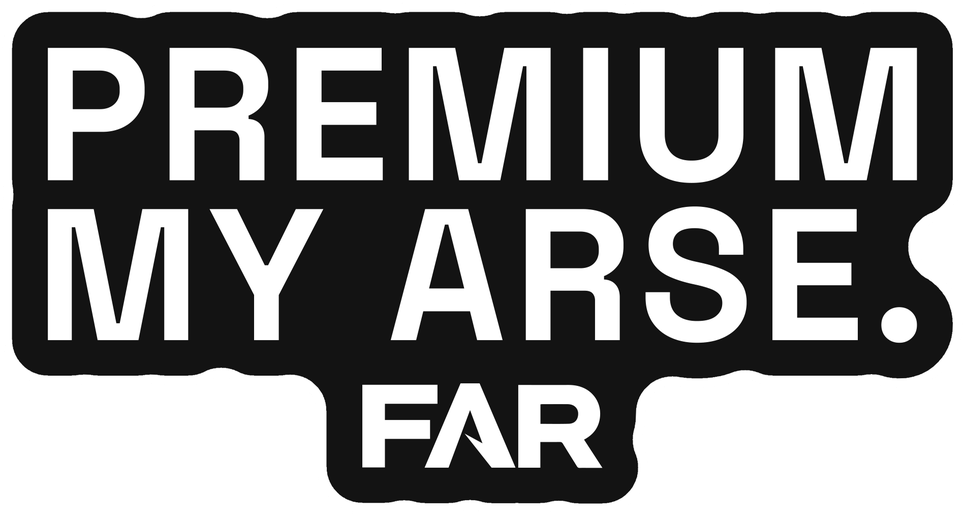
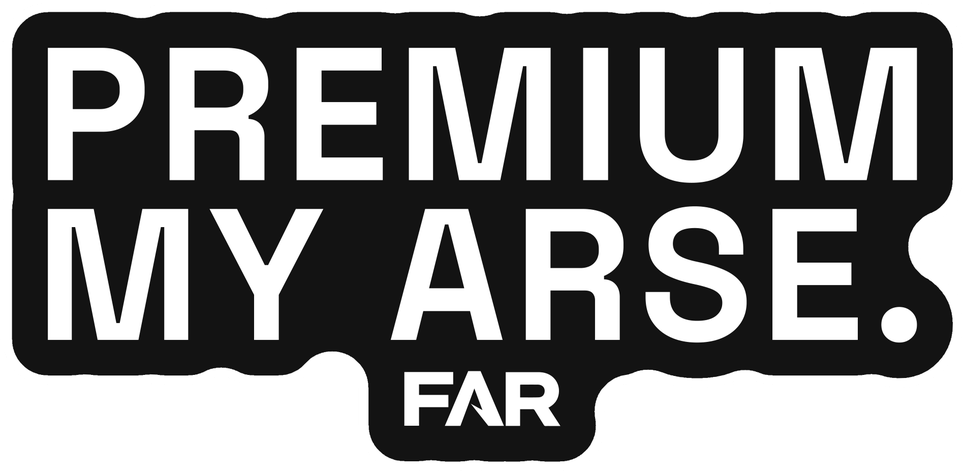
S1392: sticker vote page, smaller FAR + border style, poll link

diff --git a/far-stickers-w5n8.html b/far-stickers-w5n8.html
@@ -4,7 +4,7 @@
 <meta charset="utf-8">
 <meta name="viewport" content="width=device-width, initial-scale=1">
 <meta name="robots" content="noindex, nofollow">
-<title>Stickers: pick five</title>
+<title>Stickers: vote tonight</title>
 <style>
   :root { --bg:#111; --card:#1a1a1a; --text:#f5f5f5; --dim:#9a9a9a; --line:#2e2e2e; }
   * { margin:0; padding:0; box-sizing:border-box; }
@@ -31,11 +31,27 @@
 </head>
 <body>
 
-<h1>Stickers: pick five</h1>
-<p class="sub">Carol is making 1,000 stickers for us: 5 designs, 200 of each. They're already paid for in her order. Here are 11 options. Claude's pick of 5 is marked. Carol needs the artwork by Wed 22 Oct.</p>
+<h1>Stickers: vote tonight</h1>
+<p class="sub">Carol is making 1,000 stickers for us: 5 designs, 200 of each. They're already paid for in her order. Here are 11 options. Say In or Out on each, and the five with the most Ins go to Carol. Votes close tonight.</p>
+
+<div class="rec"><b>Vote here</b><br>
+<a href="https://agent.farworkwear.com.au/brain/decide?poll=stickers-s1392" style="color:var(--text)">agent.farworkwear.com.au/brain/decide?poll=stickers-s1392</a><br>
+12 quick taps: In or Out on each sticker, then where FAR goes on the slogan ones. A tie for the last spot: Fil picks between them.</div>
 
 <div class="rec"><b>What they are</b><br>
 Outdoor vinyl, cut to shape, with a thin white edge like Carol's proof. Most are 8 cm wide, about the width of a bank card. They go in the boxes and get handed out. Every one carries the FAR logo, placed from our real logo file, never typed.</div>
+
+<h2>Where FAR goes on the slogan ones</h2>
+<p>The FAR under the words is smaller now (Fil: the old one looked cluttered). The other way: a thin white frame with FAR sitting in a gap at the bottom. Both keep FAR on black. It applies to 7am/2pm, Don't ask, Clocked off, Premium and Formie, whichever win.</p>
+<div class="card">
+<h3>Small, underneath</h3>
+<img class="st" style="width:85%" src="stickers_w5n8/dont_ask.png?v=2" alt="Don't ask about my feet with a small FAR underneath">
+<h3>In a border <span class="tag">Claude leans</span></h3>
+<img class="st" style="width:100%" src="stickers_w5n8/dont_ask_border.png?v=2" alt="Don't ask about my feet with FAR in a border">
+<p class="dim">The border looks finished and every slogan sticker comes out the same tidy shape. Against: rectangles can look like labels, and the words come out a touch smaller.</p>
+</div>
+<p class="foot">All five slogan stickers, both ways:</p>
+<img class="sheet" src="stickers_w5n8/compare_small_vs_border.jpg?v=2" alt="Each slogan sticker with a small FAR and with a border">
 
 <h2>Claude's five</h2>
 
@@ -100,8 +116,8 @@ Outdoor vinyl, cut to shape, with a thin white edge like Carol's proof. Most are
 <div class="card">
 <h3>9. My feet clocked off at smoko</h3>
 <img class="st" style="width:100%" src="stickers_w5n8/clocked_off.png" alt="My feet clocked off at smoko sticker">
-<p>Same idea as number 3, said differently. Pick one of the two, not both.</p>
-<p class="size">8.0 x 5.2 cm</p>
+<p>The feet give up halfway through the day. Same idea as number 3, said differently.</p>
+<p class="size">8.0 x 4.9 cm</p>
 </div>
 
 <div class="card">
@@ -123,13 +139,13 @@ Outdoor vinyl, cut to shape, with a thin white edge like Carol's proof. Most are
 <li>Carol quoted on an 8 x 4 cm sticker. The boot and a few others are taller, so her price may move a little. We check with her before we confirm.</li>
 <li>Hard hats: we asked for a water-based glue that's safe on the plastic. Stick it on the shell only, never over the brim edge or the hat's own labels.</li>
 <li>"Farked" and "arse" are mild, but some sites are funny about words on hats. Worth knowing before you hand one to a foreman.</li>
-<li>Carol also asked for our logo as a vector file. That's sorted: every logo, black and white, ready to send her.</li>
+<li>Carol also asked for our logo as a vector file. That's going to her today: every logo, black and white.</li>
 </ul>
 
 <h2>What happens next</h2>
 <ul>
-<li><span class="who">Fil</span>picks the five, or puts it to all four.</li>
-<li><span class="who">Claude</span>sends Carol the five designs and the logo files.</li>
+<li><span class="who">All four</span>vote tonight.</li>
+<li><span class="who">Claude</span>sends Carol the five winners on Sunday.</li>
 <li><span class="who">Carol</span>sends a proof. We OK it, then she prints.</li>
 </ul>
 
